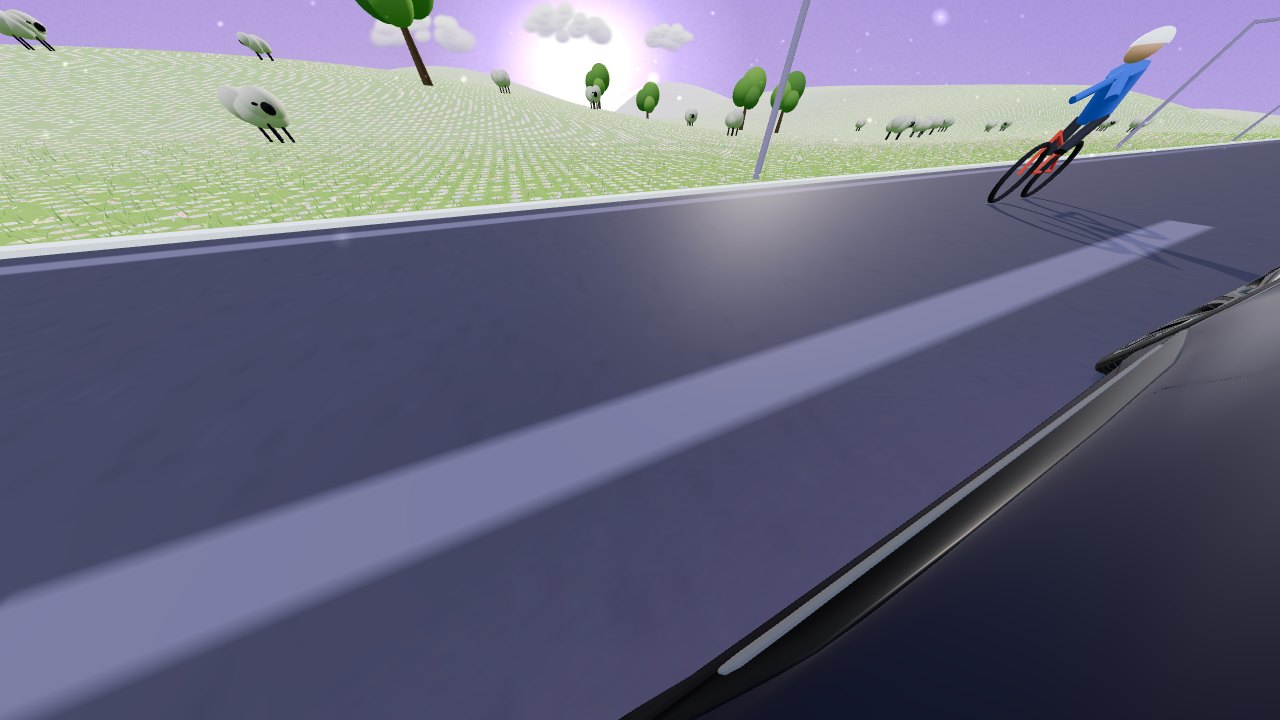
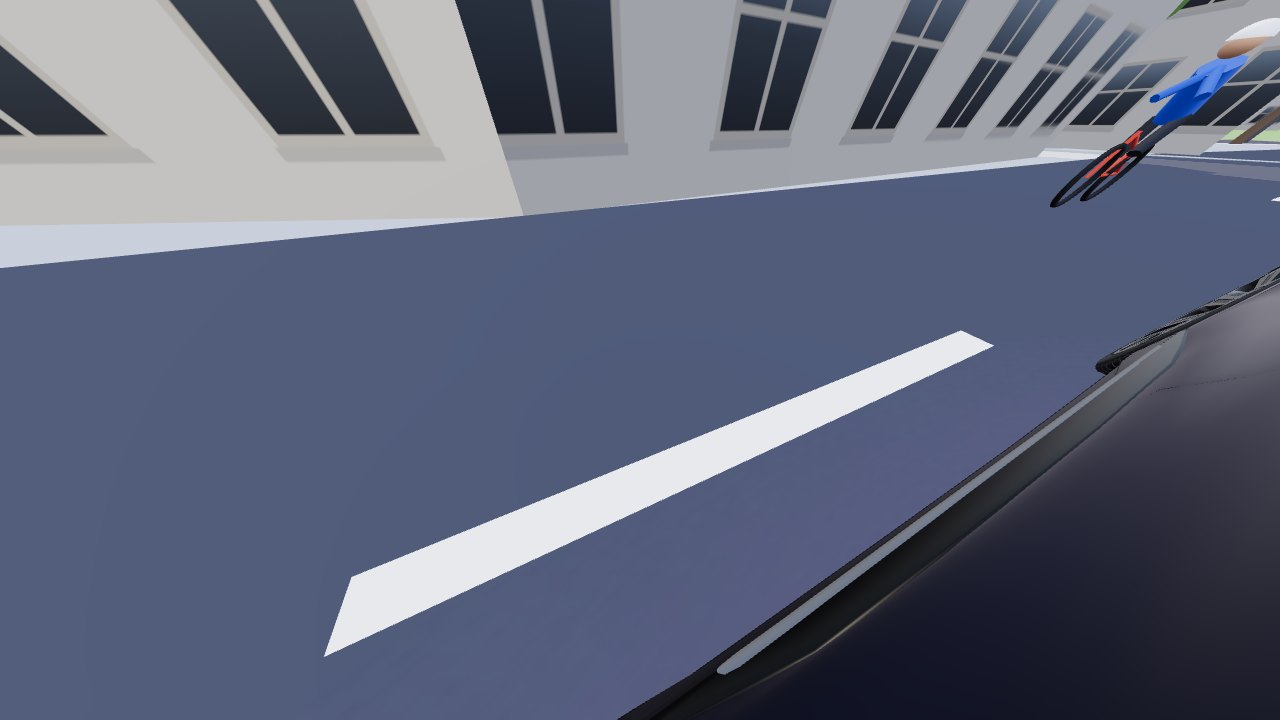
Mark 2: camera feeds re-rendered in a low-poly model of the real streets round the car (OpenStreetMap buildings, roads, lanes, trees, lamps)
Claude-Session: https://claude.ai/code/session_01P73dnHvCVQTA44iCgN1u2F

diff --git a/nio/mark2/prototype.html b/nio/mark2/prototype.html
@@ -4,10 +4,10 @@
 <link rel="preconnect" href="https://fonts.googleapis.com"><link rel="preconnect" href="https://fonts.gstatic.com" crossorigin>
 <link href="https://fonts.googleapis.com/css2?family=Red+Hat+Display:wght@400;500;700&family=Red+Hat+Text:wght@400;500;600;700&display=swap" rel="stylesheet">
 <link href="https://fonts.googleapis.com/css2?family=Material+Symbols+Rounded:opsz,wght,FILL,GRAD@20..48,300..500,0..1,0&display=block" rel="stylesheet">
-<link rel="stylesheet" href="hifi.css?v=133">
-<link rel="stylesheet" href="hifi-dark.css?v=133"><script src="i18n.js?v=133"></script>
+<link rel="stylesheet" href="hifi.css?v=134">
+<link rel="stylesheet" href="hifi-dark.css?v=134"><script src="i18n.js?v=134"></script>
 <script type="importmap">{"imports":{"three":"./vendor/three/build/three.module.min.js","three/addons/":"./vendor/three/addons/"}}</script>
-<link rel="modulepreload" href="vendor/three/build/three.module.min.js"><link rel="modulepreload" href="et9-3d.js?v=133"><link rel="modulepreload" href="vendor/three/addons/loaders/GLTFLoader.js">
+<link rel="modulepreload" href="vendor/three/build/three.module.min.js"><link rel="modulepreload" href="et9-3d.js?v=134"><link rel="modulepreload" href="vendor/three/addons/loaders/GLTFLoader.js">
 <link rel="preload" href="model/et9.glb" as="fetch" crossorigin="anonymous"><link rel="preload" href="model/paint.bin" as="fetch" crossorigin="anonymous">
 <script>(function(){var d=document.documentElement,q=new URLSearchParams(location.search),t='auto';try{t=localStorage.getItem('nio-theme')||'auto'}catch(e){}t=q.get('theme')||t;
 var dk=t==='dark'||(t==='auto'&&window.matchMedia&&matchMedia('(prefers-color-scheme: dark)').matches);d.dataset.pref=t;d.dataset.theme=dk?'dark':'light';d.dataset.night=q.get('night')||'plum';})();</script>
@@ -552,10 +552,10 @@ var dk=t==='dark'||(t==='auto'&&window.matchMedia&&matchMedia('(prefers-color-sc
 </div></div>
 <p class="disc">Map data © OpenStreetMap contributors. Vehicle figures follow published NIO ET9 specifications where available; some values are adjusted for the design study.</p>
 </div>
-<script src="hifi.js?v=133"></script>
+<script src="hifi.js?v=134"></script>
 <script src="https://cdnjs.cloudflare.com/ajax/libs/chess.js/0.10.3/chess.min.js"></script>
-<script src="hmi.js?v=133"></script>
+<script src="hmi.js?v=134"></script>
 <script src="../map/lux-map.js?v=2"></script>
-<script src="../design/nav-map.js?v=133"></script>
-<script type="module" src="et9-3d.js?v=133"></script>
+<script src="../design/nav-map.js?v=134"></script>
+<script type="module" src="et9-3d.js?v=134"></script>
 </body></html>

diff --git a/nio/mark2/batch-1.html b/nio/mark2/batch-1.html
@@ -4,7 +4,7 @@
 <link rel="preconnect" href="https://fonts.googleapis.com"><link rel="preconnect" href="https://fonts.gstatic.com" crossorigin>
 <link href="https://fonts.googleapis.com/css2?family=Red+Hat+Display:wght@400;500;700&family=Red+Hat+Text:wght@400;500;600;700&display=swap" rel="stylesheet">
 <link href="https://fonts.googleapis.com/css2?family=Material+Symbols+Rounded:opsz,wght,FILL,GRAD@20..48,300..500,0..1,0&display=block" rel="stylesheet">
-<link rel="stylesheet" href="hifi.css?v=133">
+<link rel="stylesheet" href="hifi.css?v=134">
 </head><body><div class="wrap">
 <div class="sitebar"><p class="cap">NIO ET9 CENTRE SCREEN · BATCH 1 · HIGH FIDELITY · LAVENDER LIGHT · 1440 × 900 (2880 × 1800 @2×) · built from nio/style-guide.md</p><button class="sound" type="button"></button></div>
 <nav class="toc"><a href="#drive-navigation">1 · Drive: Navigation</a><a href="#blind-spot">2 · Drive: Blind spot view</a><a href="#home">3 · Home</a><a href="#car">4 · Car</a><a href="#car-driving">5 · Car: Driving modes</a><a href="#pet-mode">6 · Pet Mode</a><a href="#parking-suggest">7 · Reserve parking, step 1: Suggest</a><a href="#edit-layout">8 · Edit layout</a><a href="#settings-display">9 · Settings › Display</a></nav>
@@ -465,8 +465,8 @@
 </div></div></section>
 <p class="disc">Vehicle figures follow published NIO ET9 specifications where available; some values are adjusted for the design study. Map data © OpenStreetMap contributors. Weather, air quality and sunset: Open-Meteo, live for Luxembourg.</p>
 </div>
-<script src="hifi.js?v=133"></script>
-<script src="hmi.js?v=133"></script>
+<script src="hifi.js?v=134"></script>
+<script src="hmi.js?v=134"></script>
 <script src="../map/lux-map.js?v=2"></script>
-<script src="../design/nav-map.js?v=133"></script>
+<script src="../design/nav-map.js?v=134"></script>
 </body></html>
